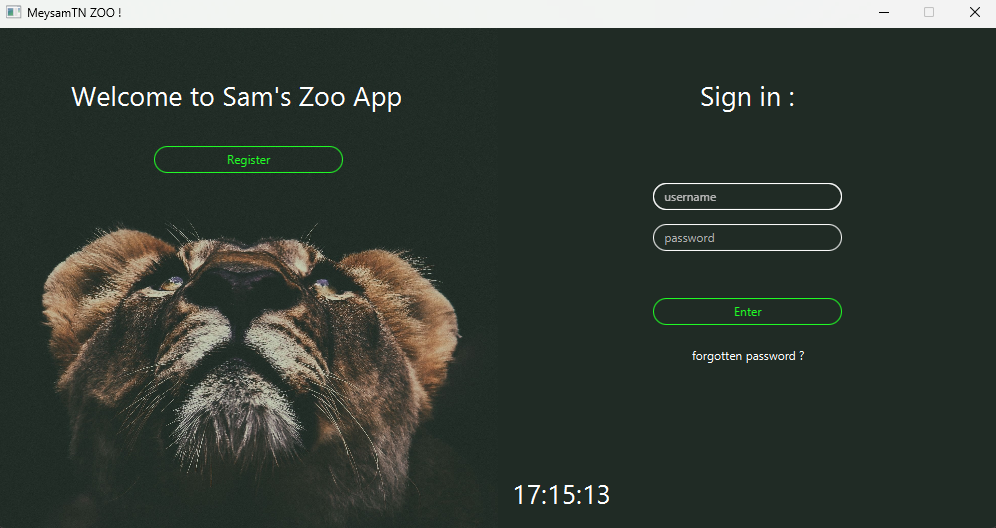
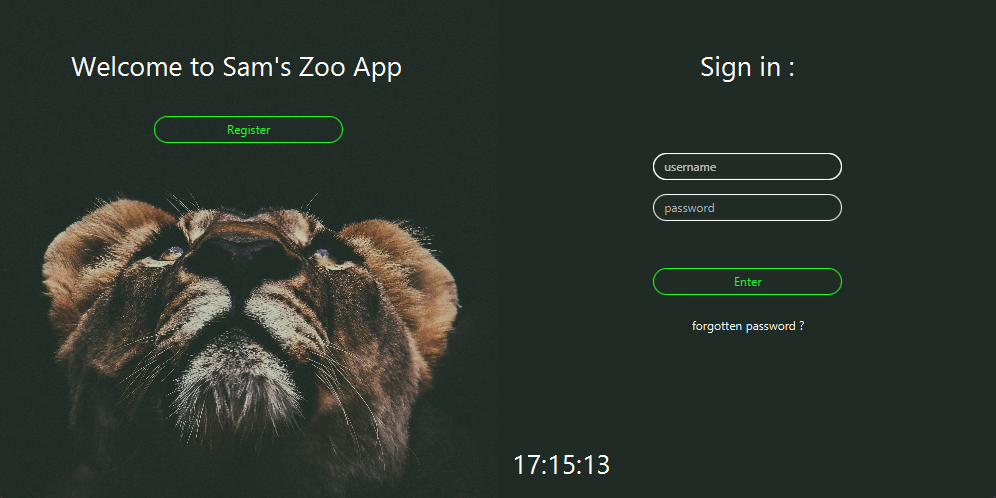
Updated project files

diff --git a/src/com/zoo/app/view/ZooApplication.java b/src/com/zoo/app/view/ZooApplication.java
@@ -27,7 +27,7 @@ public class ZooApplication extends Application {
     @Override
     public void start(Stage primaryStage) throws Exception {
         Parent root = FXMLLoader.load(getClass().getResource("/resources/sample.fxml"));
-        primaryStage.setTitle("MeysamTN ZOO !");
+        primaryStage.setTitle("Sam's Zoo App");
         primaryStage.setScene(new Scene(root, 1000, 500));
         primaryStage.setResizable(false);
         primaryStage.show();
